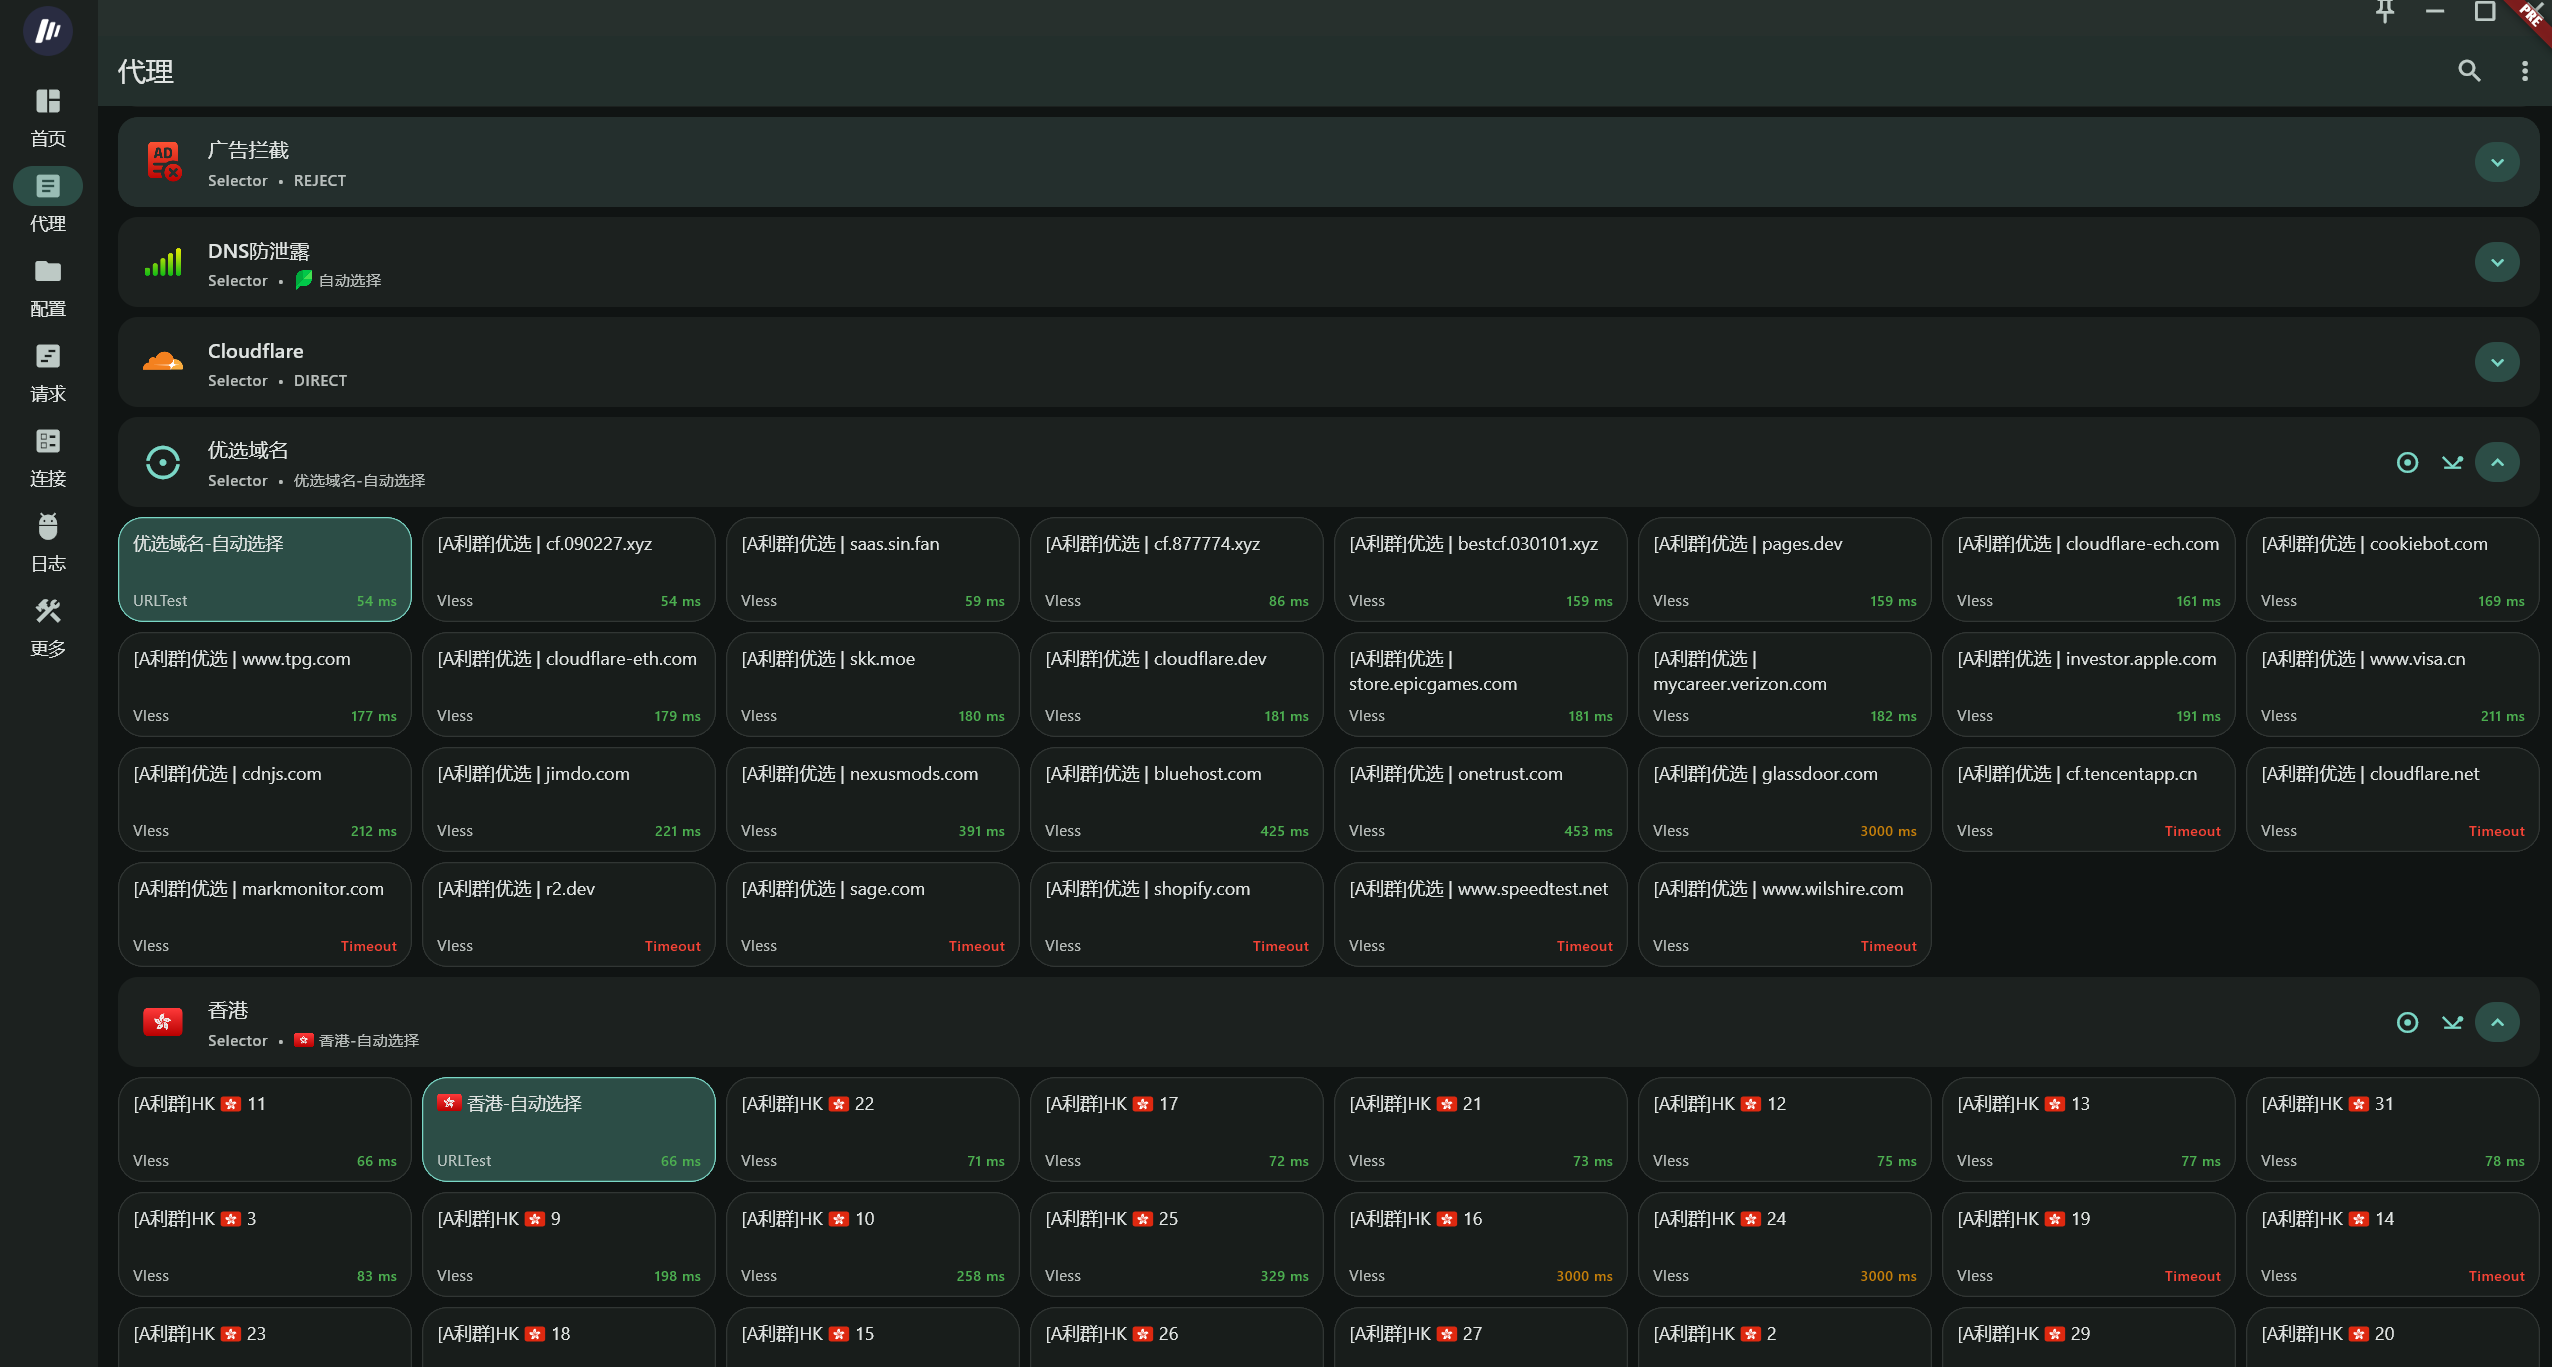
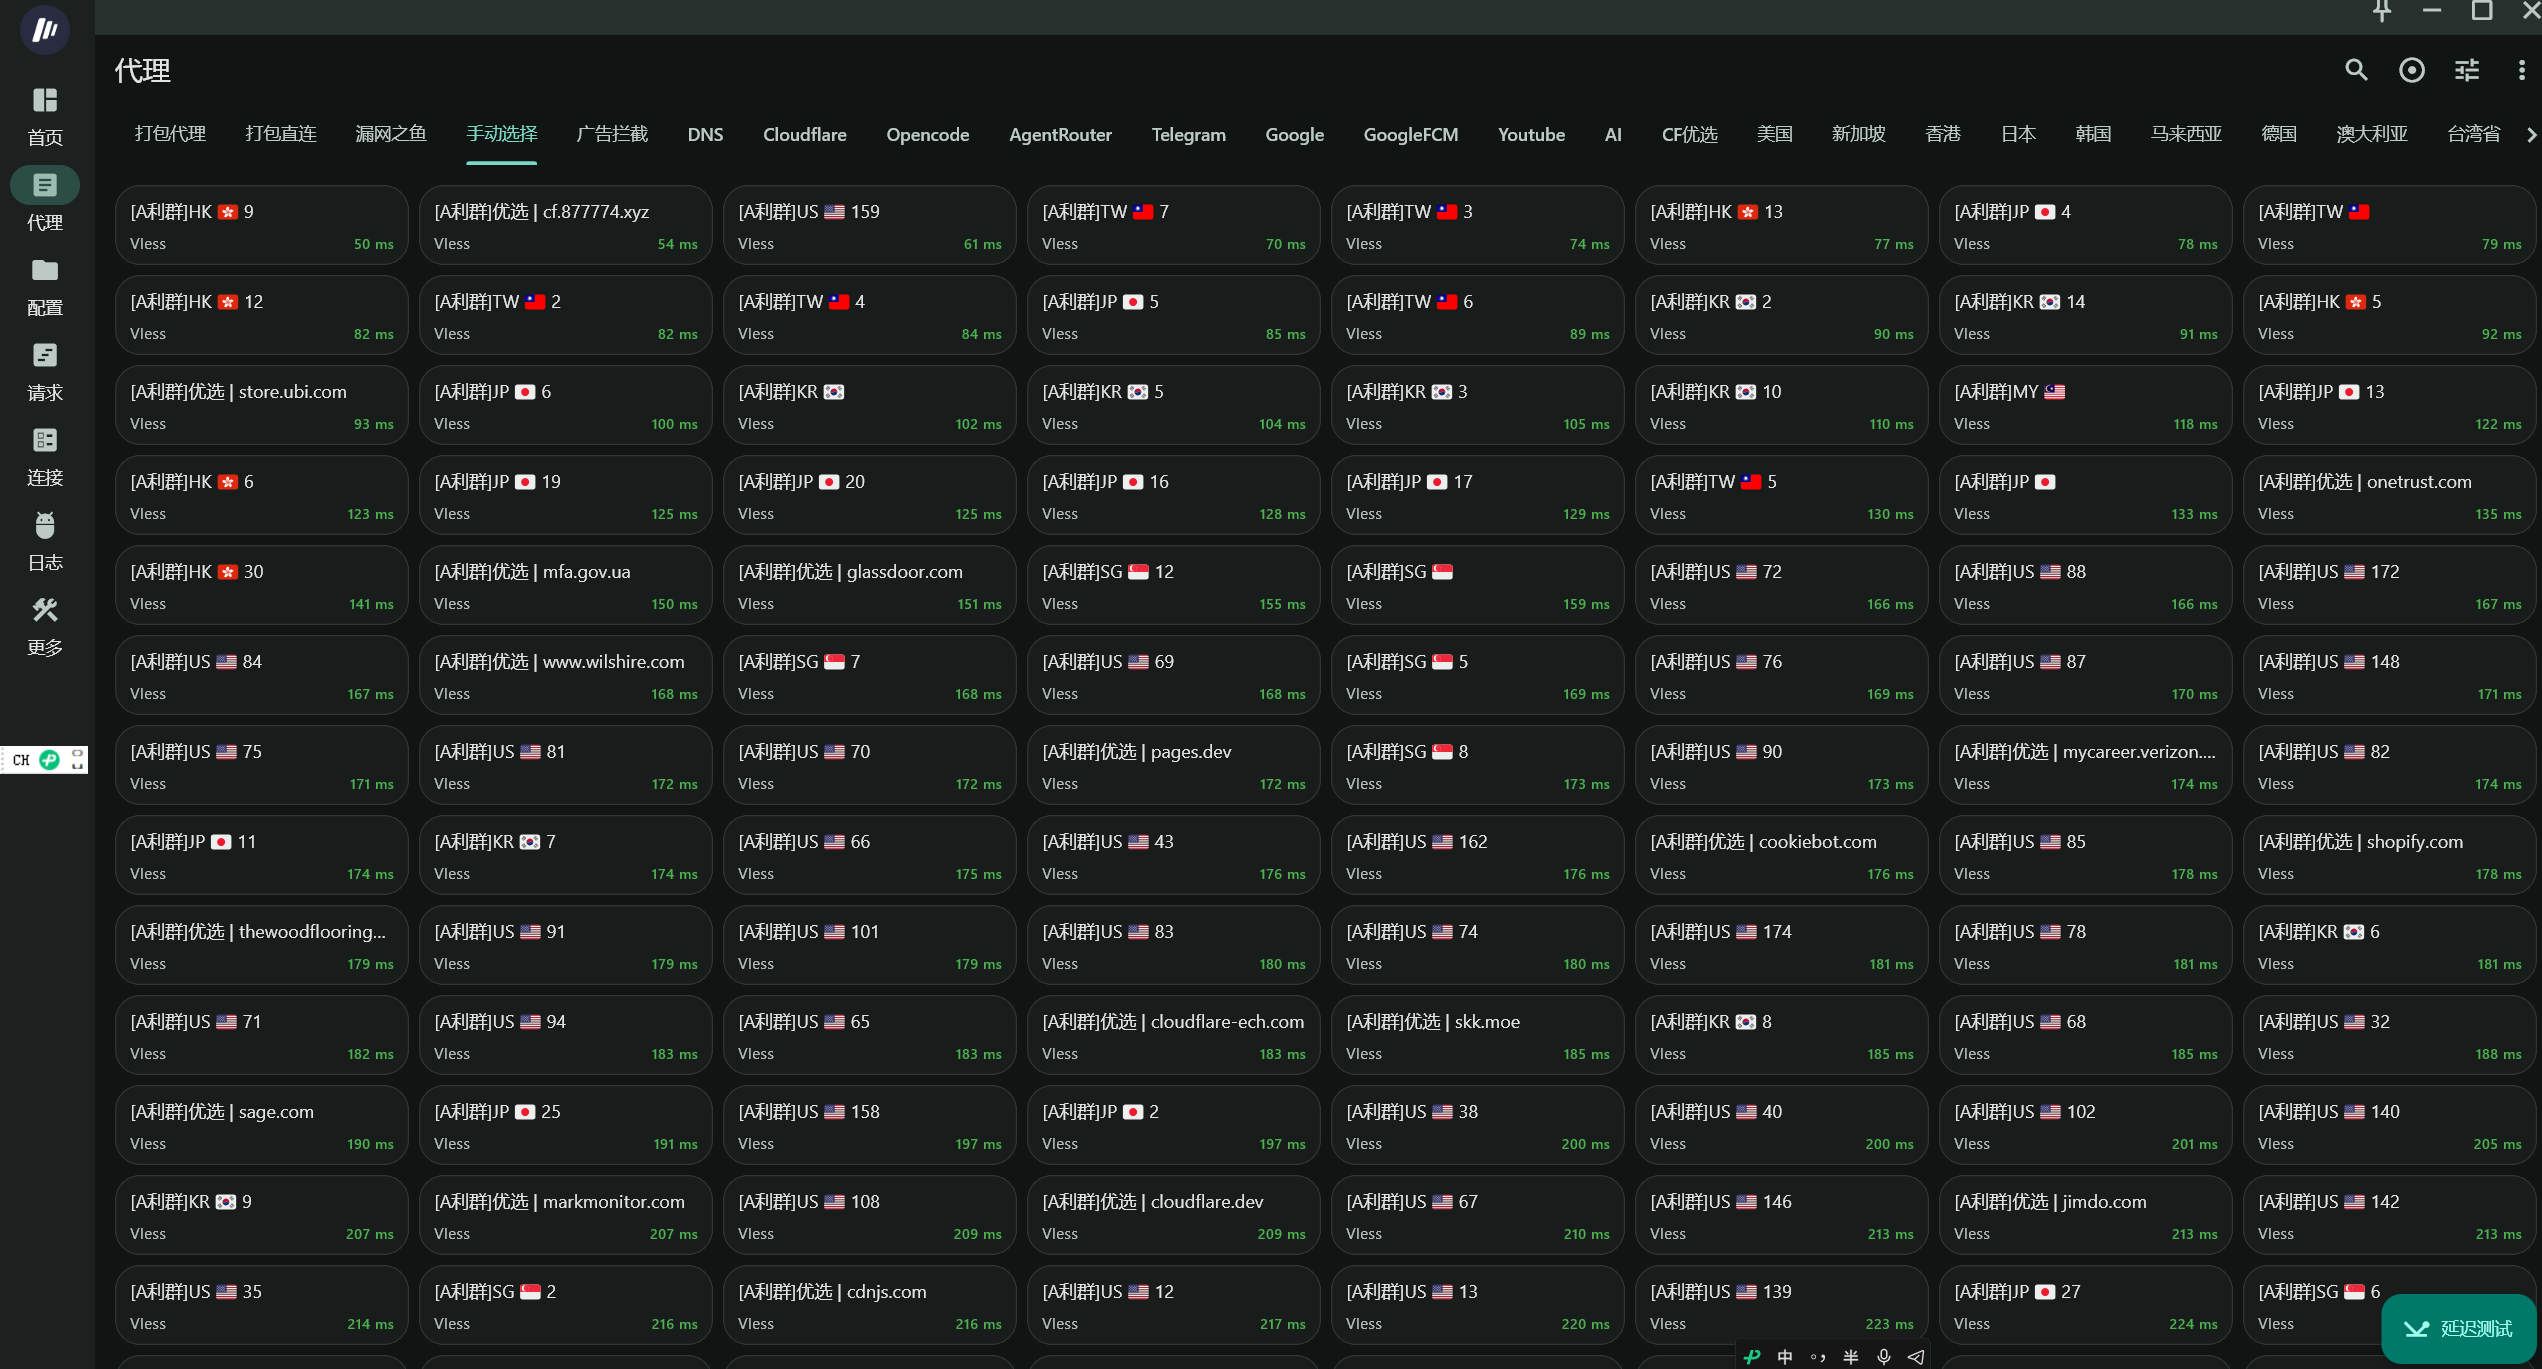
调整readme及更新示例图

diff --git a/README.fa.md b/README.fa.md
@@ -7,7 +7,6 @@
 
 <p align="center">
   <a href="https://t.me/liqunchannel"><img src="https://badgen.net/badge/فروشگاه%20رفاه%20Liqun/کانال/2CA5E0" align="absmiddle" style="height:28px"></a>
-  <a href="https://t.me/liqunchat01"><img src="https://badgen.net/badge/فروشگاه%20رفاه%20Liqun/گروه%20گفتگو/2CA5E0" align="absmiddle" style="height:28px"></a>
 </p>
 <p align="center">
   <img src="https://count.getloli.com/@:LancelotRar?name=%3ALancelotRar&theme=booru-koe&padding=7&offset=0&align=top&scale=1&pixelated=1&darkmode=auto">
@@ -30,7 +29,7 @@
 * **وبلاگ نویسنده:** [https://joeyblog.net/](https://joeyblog.net/)
 * **کانال YouTube:** [joeyblog](https://www.youtube.com/@joeyblog)
 
-### 3. نویسنده: Wang
+### 3. نویسنده: لائو وانگ
 * **اثر شاخص:** `Cloudflare-proxy`
 * **آدرس پروژه:** [https://github.com/eooce/Cloudflare-proxy](https://github.com/eooce/Cloudflare-proxy)
 * **تعداد Star کنونی:** <img src="https://badgen.net/github/stars/eooce/Cloudflare-proxy" align="absmiddle">
@@ -48,28 +47,21 @@
 
 ## 🚀 ویژگیهای برجسته این پروژه
 
-  - **پشتیبانی主流:** سازگاری با هستههای Mihomo، xray و Sing-box به عنوان کلاینتهای اصلی پروکسی.
-  - **قدرت گرفته از Cloudflare:** ساخته شده بر اساس راهحلهای متنباز高性能 Cloudflare، با تعادل بین سرعت و پایداری، همراه با دامنههای بهینه و IPهای بهینه.
+  - **پشتیبانی از هستههای اصلی:** سازگاری خودکار با هستههای Mihomo، xray و Sing-box به عنوان کلاینتهای اصلی پروکسی.
+  - **قدرت گرفته از Cloudflare:** ساخته شده بر اساس راهحلهای متنباز با کارایی بالا از Cloudflare، با تعادل بین سرعت و پایداری، [همراه با دامنههای بهینه و IPهای بهینه](https://github.com/LancelotRar/best-cf-ips).
   - **این پروژه در حال حاضر با Cmliu edgetunnel ساخته شده است**
 
 -----
 
 ## 👊 گرهها و گروهها
-<p align="center">
-  <img src="src/free2.png" alt="تصویر ۲">
-</p>
+
 <p align="center">
   <img src="src/free1.png" alt="تصویر ۱">
 </p>
-<p align="center">
-  <img src="src/free3.png" alt="تصویر ۳">
-</p>
-
------
 
 ## 📥 آدرس اشتراک
 
-* **روش دریافت اشتراک:** کانال «فروشگاه رفاه Liqun» در بالا را دنبال کنید، به پستهای سنجاق شده توجه کنید — آنها دارای اعتبار محدود هستند. یا به گروه بپیوندید تا آدرسهای اشتراک عمومی بلندمدت دریافت کنید.
+* **روش دریافت اشتراک:** کانال «فروشگاه رفاه Liqun» در بالا را دنبال کنید، به پستهای سنجاق شده توجه کنید — آنها دارای اعتبار محدود هستند.
 * **قالب پیکربندی Mihomo (فقط قالب، بدون اشتراک):** 📄[**قالب پیکربندی**](/src/liqun_example.yaml)، بهطور مداوم بهترین روشها را بهینهسازی میکند. میتوانید fork کنید و خودتان تغییر دهید.
 
 ---

diff --git a/README.ru.md b/README.ru.md
@@ -6,7 +6,6 @@
 
 <p align="center">
   <a href="https://t.me/liqunchannel"><img src="https://badgen.net/badge/Liqun/Канал/2CA5E0" align="absmiddle" style="height:28px"></a>
-  <a href="https://t.me/liqunchat01"><img src="https://badgen.net/badge/Liqun/Чат/2CA5E0" align="absmiddle" style="height:28px"></a>
 </p>
 <p align="center">
   <img src="https://count.getloli.com/@:LancelotRar?name=%3ALancelotRar&theme=booru-koe&padding=7&offset=0&align=top&scale=1&pixelated=1&darkmode=auto">
@@ -29,7 +28,7 @@
 * **Блог автора:** [https://joeyblog.net/](https://joeyblog.net/)
 * **YouTube:** [joeyblog](https://www.youtube.com/@joeyblog)
 
-### 3. Автор: Wang
+### 3. Автор: Лао Ван
 * **Основная работа:** `Cloudflare-proxy`
 * **Адрес проекта:** [https://github.com/eooce/Cloudflare-proxy](https://github.com/eooce/Cloudflare-proxy)
 * **Звёзд:** <img src="https://badgen.net/github/stars/eooce/Cloudflare-proxy" align="absmiddle">
@@ -47,28 +46,21 @@
 
 ## 🚀 Особенности проекта
 
-  - **Поддержка основных клиентов:** совместимость с ядрами Mihomo, xray и Sing-box.
-  - **На базе Cloudflare:** построено на высокопроизводительных решениях Cloudflare, баланс скорости и стабильности, с оптимальными доменами и оптимальными IP-адресами.
+  - **Поддержка основных клиентов:** адаптивная совместимость с ядрами Mihomo, xray и Sing-box.
+  - **На базе Cloudflare:** построено на высокопроизводительных решениях Cloudflare, баланс скорости и стабильности, [с оптимальными доменами и оптимальными IP-адресами](https://github.com/LancelotRar/best-cf-ips).
   - **В данный момент проект использует Cmliu edgetunnel**
 
 -----
 
 ## 👊 Узлы и группы
-<p align="center">
-  <img src="src/free2.png" alt="Скриншот 2">
-</p>
+
 <p align="center">
   <img src="src/free1.png" alt="Скриншот 1">
 </p>
-<p align="center">
-  <img src="src/free3.png" alt="Скриншот 3">
-</p>
-
------
 
 ## 📥 Адрес подписки
 
-* **Получение адреса подписки:** Подпишитесь на канал «Liqun» выше, обращайте внимание на закреплённые сообщения — они имеют ограниченный срок действия. Или вступите в группу, чтобы получить долгосрочные общественные адреса подписки.
+* **Получение адреса подписки:** Подпишитесь на канал «Liqun» выше, обращайте внимание на закреплённые сообщения — они имеют ограниченный срок действия.
 * **Шаблон конфигурации Mihomo (только шаблон, без подписок):** 📄[**Шаблон конфигурации**](/src/liqun_example.yaml)，постоянно оптимизируются лучшие практики. Можно сделать fork и изменять самостоятельно.
 
 ---

diff --git a/README.md b/README.md
@@ -7,7 +7,6 @@
 
 <p align="center">
   <a href="https://t.me/liqunchannel"><img src="https://badgen.net/badge/利群便利店/频道/2CA5E0" align="absmiddle" style="height:28px"></a>
-  <a href="https://t.me/liqunchat01"><img src="https://badgen.net/badge/利群便利店/交流群/2CA5E0" align="absmiddle" style="height:28px"></a>
 </p>
 <p align="center">
   <img src="https://count.getloli.com/@:LancelotRar?name=%3ALancelotRar&theme=booru-koe&padding=7&offset=0&align=top&scale=1&pixelated=1&darkmode=auto">
@@ -48,28 +47,21 @@
 
 ## 🚀 本项目亮点
 
-  -  **主流支持：** 自适应 Mihomo、xray、Sing-box内核为代表的主流代理客户端。
-  -  **Cloudflare赋能：** 基于 Cloudflare 高性能开源方案搭建，兼顾速度与稳定性，同时提供优选域名与优选IP双方案。
-  -  **本项目当前使用Cmliu edgetunnel 搭建**
+  -  **主流支持：** 自适应 Mihomo、xray、Sing-box 内核为代表的主流代理客户端。
+  -  **Cloudflare赋能：** 基于 Cloudflare 高性能开源方案搭建，兼顾速度与稳定性。[同时提供优选域名与优选IP双方案](https://github.com/LancelotRar/best-cf-ips)。
+  -  **本项目当前使用 Cmliu edgetunnel 搭建**
 
 -----
 
 ## 👊 节点及分组
-<p align="center">
-  <img src="src/free2.png" alt="效果图2">
-</p>
+
 <p align="center">
   <img src="src/free1.png" alt="效果图1">
 </p>
-<p align="center">
-  <img src="src/free3.png" alt="效果图3">
-</p>
-
------
 
 ## 📥 订阅地址    
 
-* **订阅地址获取方式：**  关注上方利群便利店『频道』，注意置顶信息，具有时效性。或加入群组获取长期公益订阅地址。
+* **订阅地址获取方式：**  关注上方利群便利店『频道』，注意置顶信息，具有时效性。
 * **Mihomo配置文件模板（仅模板，不含订阅）:** 📄[**配置文件模板**](/src/liqun_example.yaml)，不断优化最佳实践。可fork后自行修改。
 
 ---
